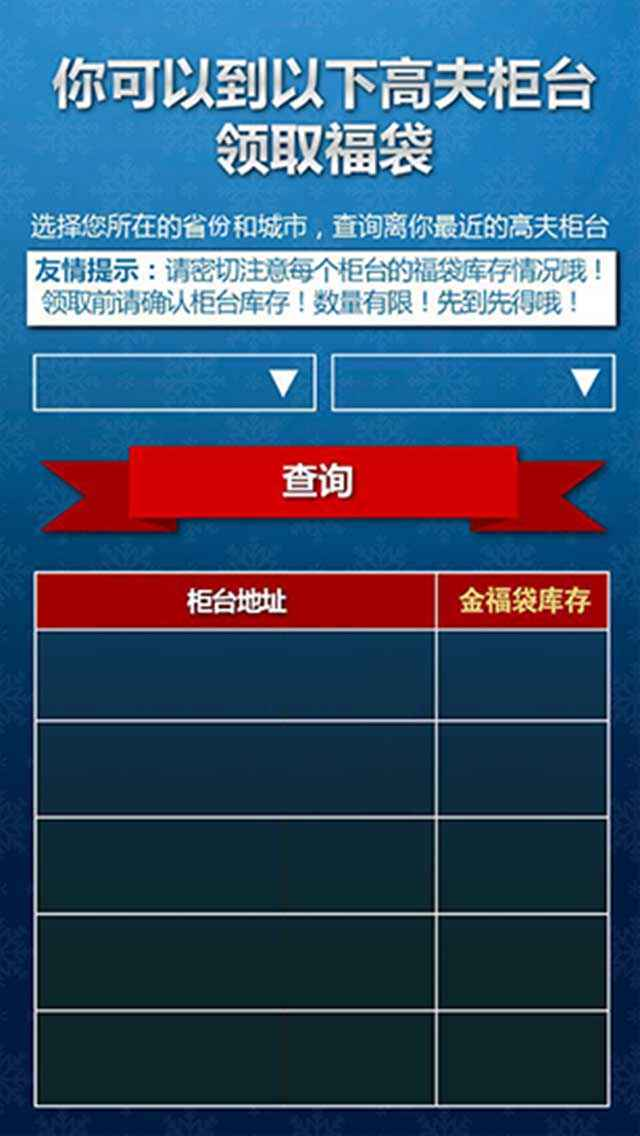
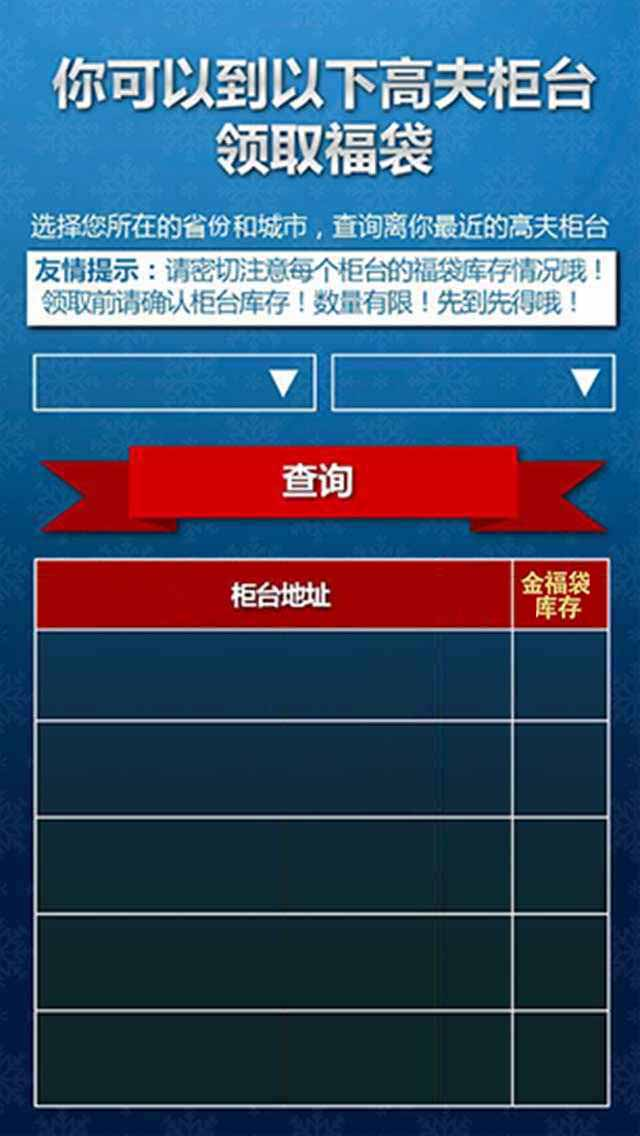
update font and address size

Changed region(s): [[0.0312, 0.493, 0.9688, 0.9859]]

diff --git a/public/app/shop.js b/public/app/shop.js
@@ -12,12 +12,12 @@
 	];
 
 	function initLocationPosition(text, idx) {
-		text.x = ns.game.width * 0.075;
+		text.x = ns.game.width * 0.07;
 		text.y = ns.game.height * yArchors[idx%5];
 	}
 
 	function initRemainingPosition(text, idx) {
-		text.x = ns.game.width * 0.78;
+		text.x = ns.game.width * 0.83;
 		text.y = ns.game.height * (yArchors[idx%5] + 0.012);
 	}
 
@@ -35,7 +35,7 @@
 		// add next batch
 		for (var i = page * 5; i < data.length && i < (page + 1) * 5; i++) {
 			var shopText = new Q.Text({id: "shopText"});
-			shopText.width = ns.game.state === "silver" ? 530 : 375;
+			shopText.width = ns.game.state === "silver" ? 530 : 460;
 			shopText.height = 80;
 			shopText.scaleX = ns.game.cityResultPage.scaleX;
 			shopText.scaleY = ns.game.cityResultPage.scaleY;
@@ -51,7 +51,7 @@
 
 			if (ns.game.state === "gold") {
 				var remainingText = new Q.Text({id: "remainingText"});
-				remainingText.width = 120;
+				remainingText.width = 65;
 				remainingText.height = 52;
 				remainingText.scaleX = ns.game.cityResultPage.scaleX;
 				remainingText.scaleY = ns.game.cityResultPage.scaleY;
